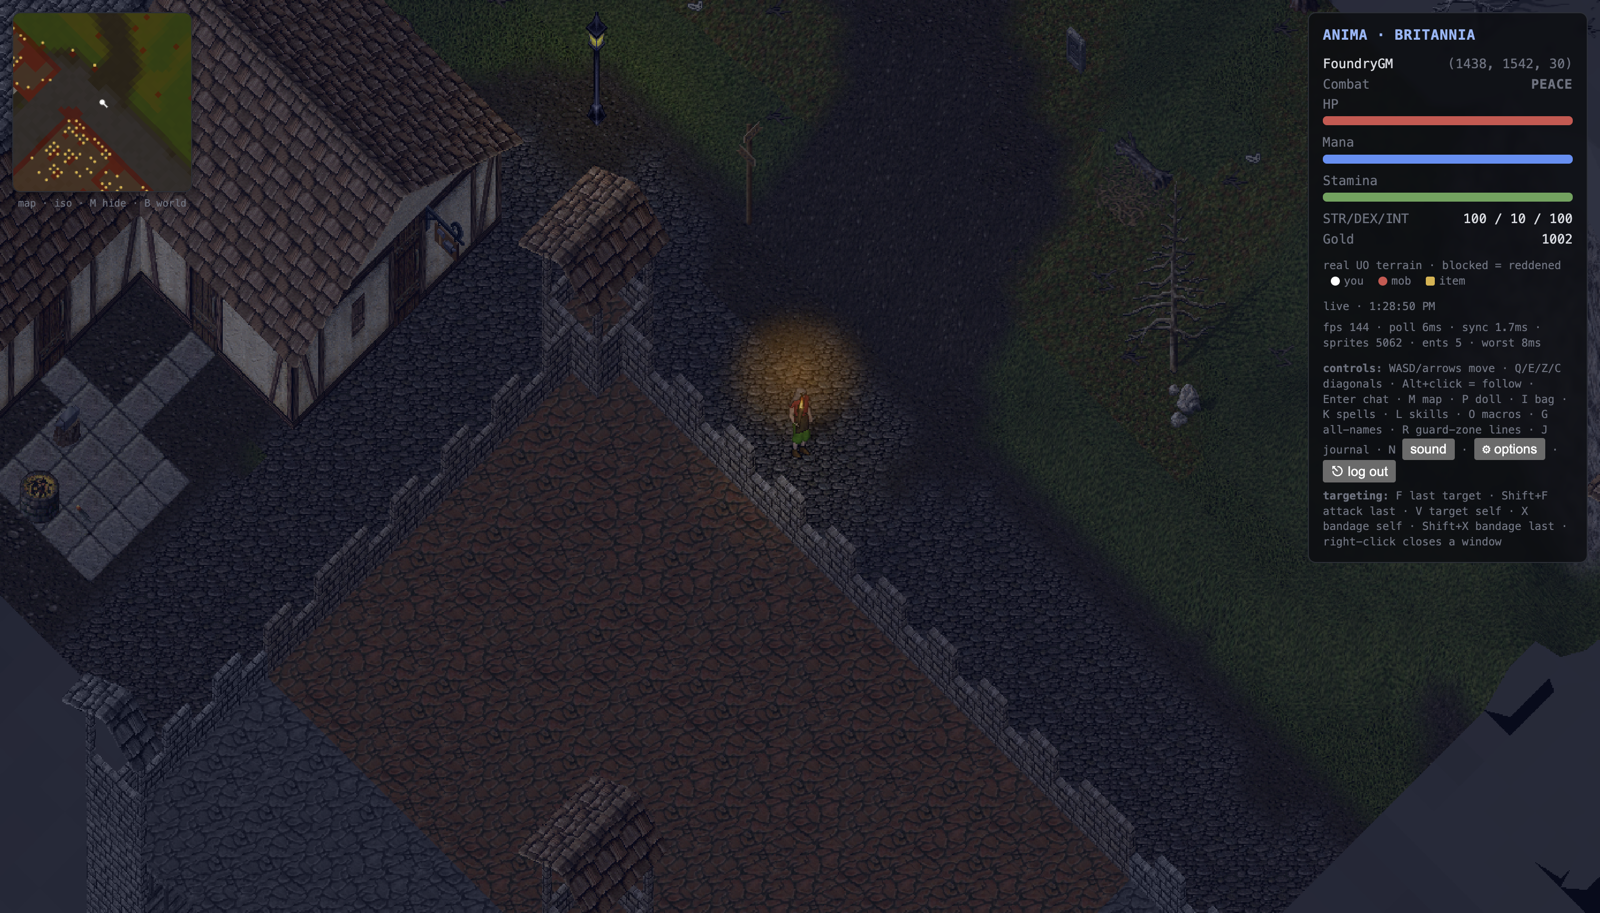
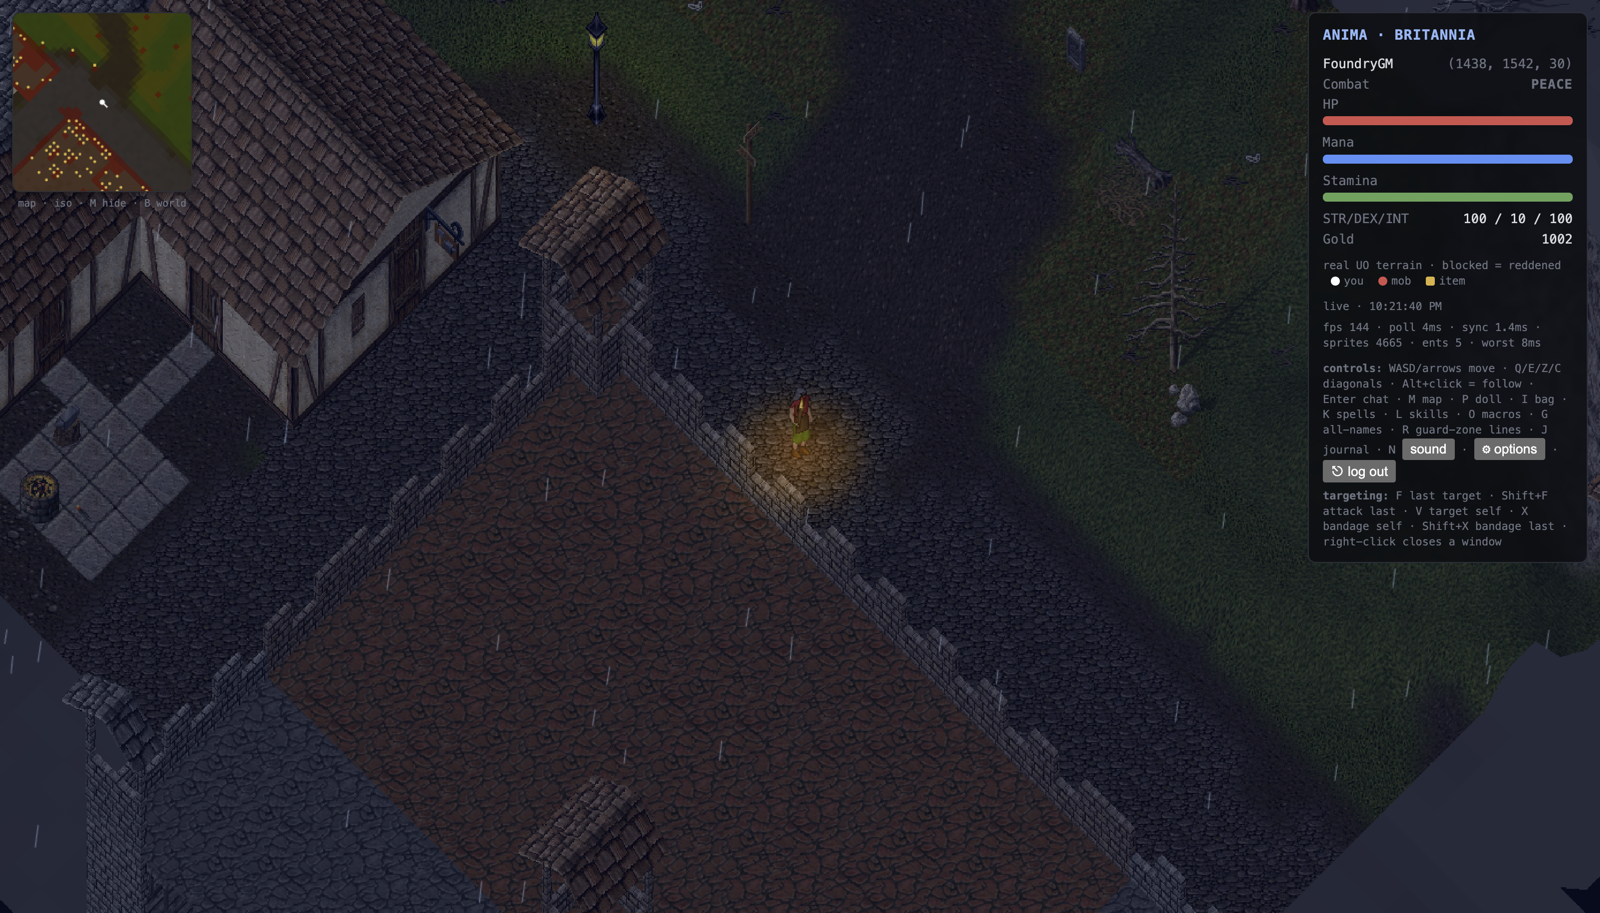
fix: a carried light belongs at the feet, not halfway up the sprite
You said it still looked wrong and that it should sit under the character. It
did, and the reason was a misreading I introduced one commit ago.

I had the branch right — a worn light whose art is drawn takes the call inside
`DrawInternal`, not the per-facing nudge — but then guessed at what that call
passes, and put the light at the layer sprite's mid-height on the theory that
this is where a torch's flame sits. That was invention, not a port.

What it actually passes is `AddLight(owner, entity, mirror ? x + width : x, y)`,
where `x, y` are `DrawInternal`'s own parameters, and the worn-layer call site
hands it `drawX, drawY` — the same pair the BODY is drawn from. So the light
lands where the character stands, not on the flame. The point is the tile point,
less the 3 from the `posY -= 3` two lines above it.

Measured after the change: the light sits at 65437 against a tile centre of
65440 — the tile point minus 3, exactly — and the pool in the screenshot now
closes around the character's feet instead of hanging off them.

Also worth recording, since this is the third correction in one small function:
the method is `DrawInternal`, not `DrawLayer`. I inherited that name from the
report that introduced the feature, repeated it in the last commit message, and
only found it was wrong when a grep for `DrawLayer` in MobileView.cs returned
nothing at all.

diff --git a/web/js/04-boot.js b/web/js/04-boot.js
@@ -371,11 +371,15 @@ function fxFrame(now) {
             ? "self" : ("m" + (L.hs >>> 0));
           const sp = mobSprites.get(owner + "#L" + (L.ly | 0) + "#0");
           if (sp && sp.visible && sp.texture) {
-            // Sprites here are anchored bottom-centre; ClassicUO passes the
-            // layer frame's own draw point. Mid-height is where a torch's flame
-            // sits on the frame, and it needs no mirror bookkeeping.
-            wx = sp.x;
-            wy = sp.y - (sp.height || 0) / 2;
+            // The drawn branch lights from the BODY's draw point, not from the
+            // flame. `AddLight(owner, entity, mirror ? x + width : x, y)` sits
+            // inside `DrawInternal(… int x, int y …)`, and the worn-layer call
+            // passes `drawX, drawY` — the same pair the body is drawn from. So
+            // the light lands where the character stands, which is the tile
+            // point, `-3` for the `posY -= 3` that precedes it. The per-facing
+            // nudge belongs to the OTHER branch and is not used here.
+            wx = isoX(L.x, L.y);
+            wy = isoY(L.x, L.y, L.z) - 3;
           }
         }
         const sx = (ox + wx * camZoom) * cssX;
